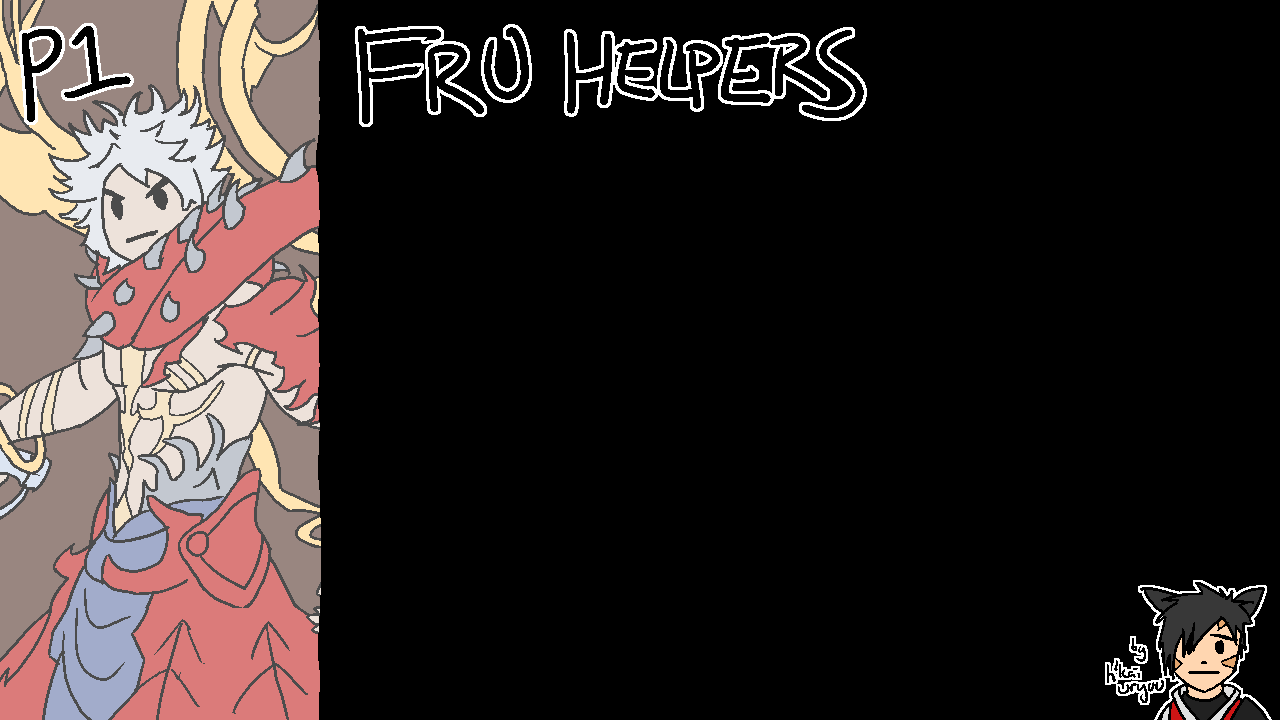
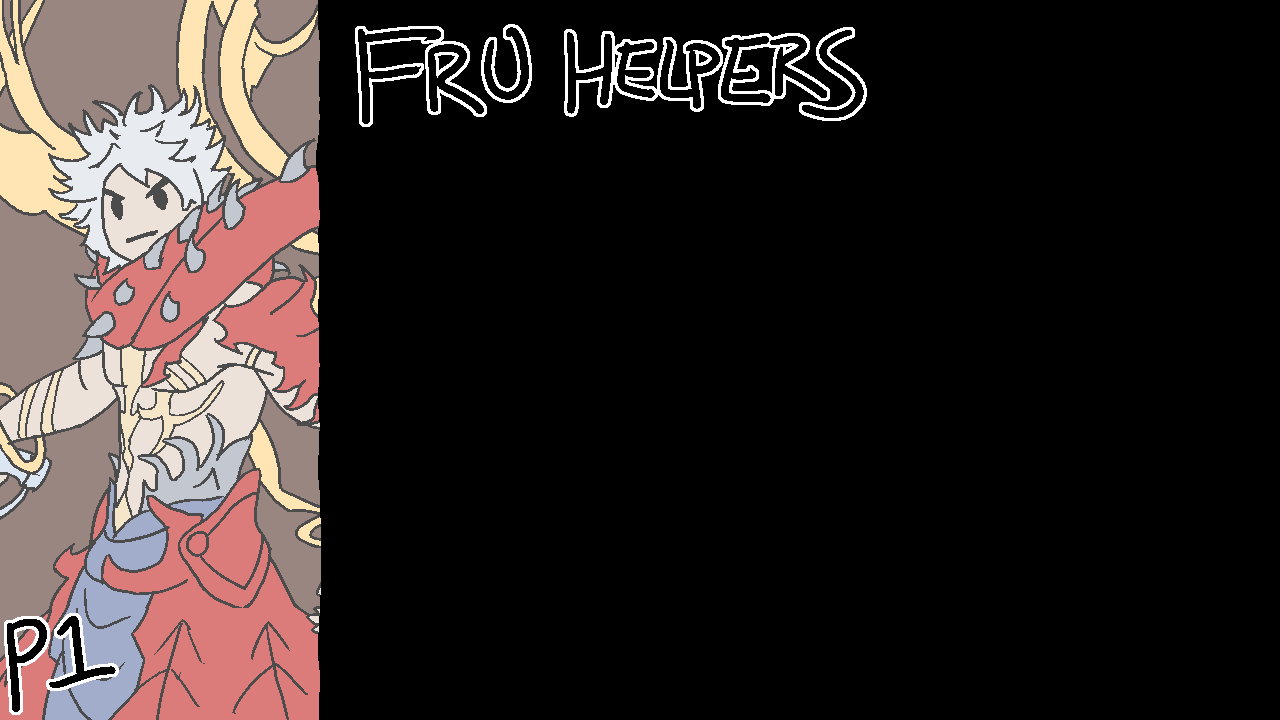
GitHub link on title page

Changed region(s): [[0.8438, 0.7944, 1.0, 1.0], [0.0, 0.0306, 0.125, 0.1833], [0.0, 0.8556, 0.0938, 1.0]]

diff --git a/README.md b/README.md
@@ -1,5 +1,11 @@
-# fru-helpers
+# FRU Helpers
 
-i make video games for a living so maybe i should make something good for once
+This is a set of helpers for explaining and drilling specific strats in FFXIV's Futures Rewritten (Ultimate) raid. It is intended to be useful for internalizing the pattern recognition and decision-making required to successfully solve a mechanic. However, it is not intended as a replacement for running simulations, as it does not handle any timing or movement.
 
-very much a work in progress, please check back when i actually release a 1.0
+Please note that I am primarily making this for myself and my static, so I will be focusing on implementing mechanics at my current prog point, and strats may differ from NAUR standards if we do something different. As time permits, I will add other mechanics and alternate strats.
+
+### Contact
+If you encounter a bug or have a feature request, please open an issue on the [GitHub issues page](https://github.com/blastron/fru-helpers/issues).
+
+### Contributing
+The underlying goal of this project is to build a framework that allows anyone (who is reasonably skilled in coding) to quickly create new mechanics and strats, with enough built-in functionality to make things about as painless as possible. At the moment, it's not quite done enough for other people to contribute to, but if you're interested in doing so in the future, please contact me.
